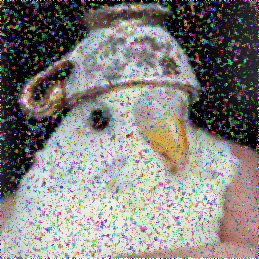
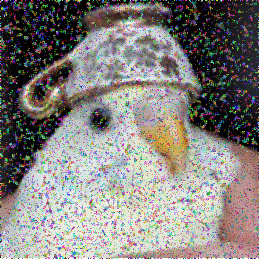
added demo.sh

diff --git a/noisify.py b/noisify.py
@@ -1,4 +1,6 @@
-import numpy as np
+import sys
+import getopt
+
 from utils import (
     openImage,
     splitChannels,
@@ -7,14 +9,44 @@ from utils import (
     saveImage,
 )
 
-if __name__ == '__main__':
-    path = 'img/birb.png'
-    dest = 'img/birb_noisy.png'
+# usage string
+USAGE = 'Usage:'
+USAGE += '\n\tnoisify.py src dest '
+USAGE += '[-p noise_density]'
 
-    # noise probability
+if __name__ == '__main__':
+    # exit if not enough arguments
+    if len(sys.argv) < 3:
+        print(USAGE)
+        sys.exit(1)
+
+    # image file source
+    src = sys.argv[1]
+    # image file destination
+    dest = sys.argv[2]
+    # noise density
     p = 0.5
 
-    img = openImage(path)
+    # parse command line arguments
+    try:
+        opts, _ = getopt.getopt(sys.argv[3:], 'p:')
+    except getopt.GetoptError:
+        print(USAGE)
+        sys.exit(1)
+
+    for opt, arg in opts:
+        if opt == '-p':
+            try:
+                p = float(arg)
+                if p < 0 or p > 1:
+                    raise ValueError
+            except:
+                print('Error: p must be a float in range [0, 1]')
+                print(USAGE)
+                sys.exit(1)
+
+    # open image and split into RGB channels
+    img = openImage(src)
     R, G, B = splitChannels(img)
 
     # add noise to all 3 channels
@@ -22,9 +54,6 @@ if __name__ == '__main__':
     G, _ = addNoise(G, p, is_noisy)
     B, _ = addNoise(B, p, is_noisy)
 
+    # combine RGB channels and save image
     img = combineChannels(R, G, B)
     saveImage(img, dest)
-
-    # save is_noisy arrays as binary files
-    with open('data/is_noisy_birb.npy', 'wb') as npyfile:
-        np.save(npyfile, is_noisy)

diff --git a/interpolate.py b/interpolate.py
@@ -1,3 +1,6 @@
+import sys
+import getopt
+
 from utils import (
     openImage,
     splitChannels,
@@ -7,16 +10,47 @@ from utils import (
     saveImage,
 )
 
-if __name__ == '__main__':
-    path = 'img/birb_noisy.png'
-    dest = 'img/birb_interpolated.png'
+# usage string
+USAGE = 'Usage:'
+USAGE += '\n\interpolate.py src dest '
+USAGE += '[-E noise_threshold]'
 
-    img = openImage(path)
+if __name__ == '__main__':
+    # exit if not enough arguments
+    if len(sys.argv) < 3:
+        print(USAGE)
+        sys.exit(1)
+
+    # image file source
+    src = sys.argv[1]
+    # image file destination
+    dest = sys.argv[2]
+    # window length
+    N = 3
+    # noise threshold
+    E = 53
+
+    # parse command line arguments
+    try:
+        opts, _ = getopt.getopt(sys.argv[3:], 'E:')
+    except getopt.GetoptError:
+        print(USAGE)
+        sys.exit(1)
+
+    for opt, arg in opts:
+        if opt == '-E':
+            try:
+                E = abs(float(arg))
+            except:
+                print('Error: E must be a float in range [0, 255]')
+                print(USAGE)
+                sys.exit(1)
+
+    # open image and split into RGB channels
+    img = openImage(src)
     R, G, B = splitChannels(img)
 
     # get noisy pixels
-    N = 3
-    E = 12
     is_noisy_R = detectNoise(R, N, E=E)
     is_noisy_G = detectNoise(G, N, E=E)
     is_noisy_B = detectNoise(B, N, E=E)
@@ -49,10 +83,10 @@ if __name__ == '__main__':
         is_noisy_G,
     )
 
+    # combine RGB channels and save image
     img = combineChannels(
         R_interpolated,
         G_interpolated,
         B_interpolated,
     )
-
     saveImage(img, dest)

diff --git a/median.py b/median.py
@@ -1,3 +1,6 @@
+import sys
+import getopt
+
 from utils import (
     openImage,
     splitChannels,
@@ -6,18 +9,49 @@ from utils import (
     saveImage,
 )
 
-if __name__ == '__main__':
-    path = 'img/birb_noisy.png'
-    dest = 'img/birb_median.png'
+# usage string
+USAGE = 'Usage:'
+USAGE += '\n\median.py src dest '
+USAGE += '[-N window_length]'
 
-    img = openImage(path)
+if __name__ == '__main__':
+    # exit if not enough arguments
+    if len(sys.argv) < 3:
+        print(USAGE)
+        sys.exit(1)
+
+    # image file source
+    src = sys.argv[1]
+    # image file destination
+    dest = sys.argv[2]
+    # window length
+    N = 3
+
+    # parse command line arguments
+    try:
+        opts, _ = getopt.getopt(sys.argv[3:], 'N:')
+    except getopt.GetoptError:
+        print(USAGE)
+        sys.exit(1)
+
+    for opt, arg in opts:
+        if opt == '-N':
+            try:
+                N = abs(int(arg))
+            except:
+                print('Error: N must be a positive integer')
+                print(USAGE)
+                sys.exit(1)
+
+    # open image and split into RGB channels
+    img = openImage(src)
     R, G, B = splitChannels(img)
 
     # apply median filter
-    N = 3
     R = slidingWindowOperation(R, N, op='median')
     G = slidingWindowOperation(G, N, op='median')
     B = slidingWindowOperation(B, N, op='median')
 
+    # combine RGB channels and save image
     img = combineChannels(R, G, B)
     saveImage(img, dest)

diff --git a/utils.py b/utils.py
@@ -1,6 +1,5 @@
 import numpy as np
 from PIL import Image
-import random
 
 def openImage(path):
     '''
